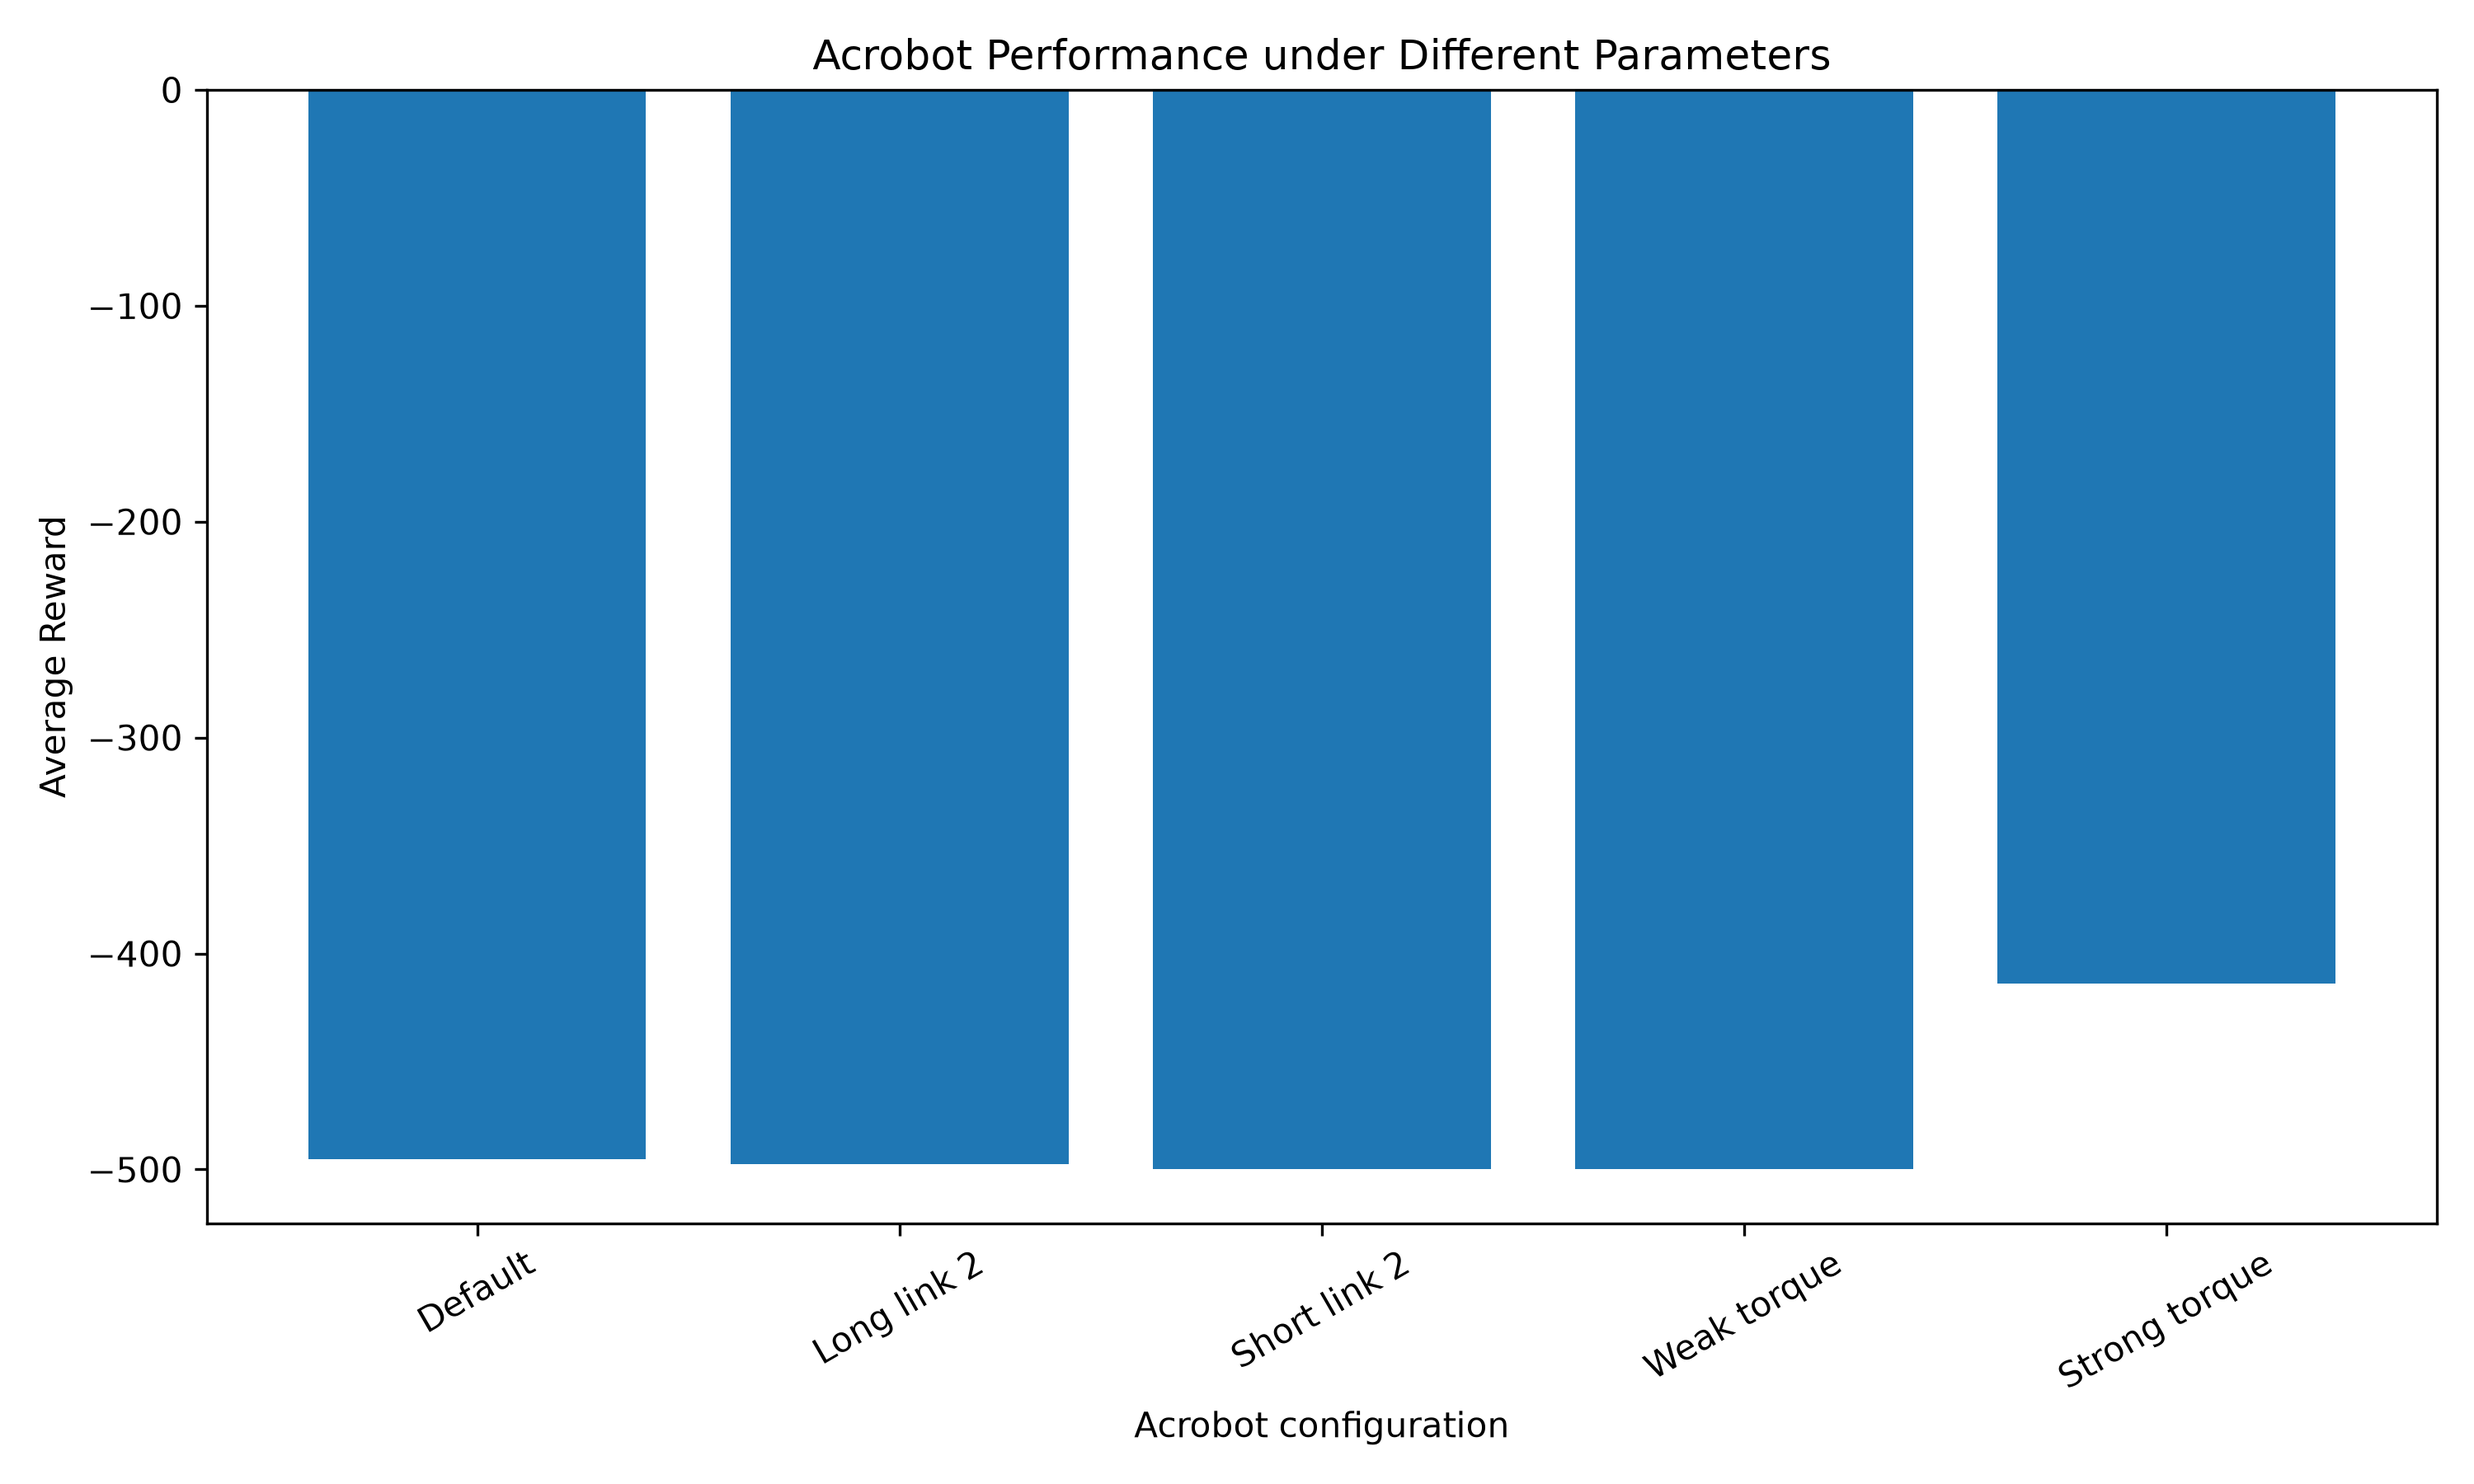
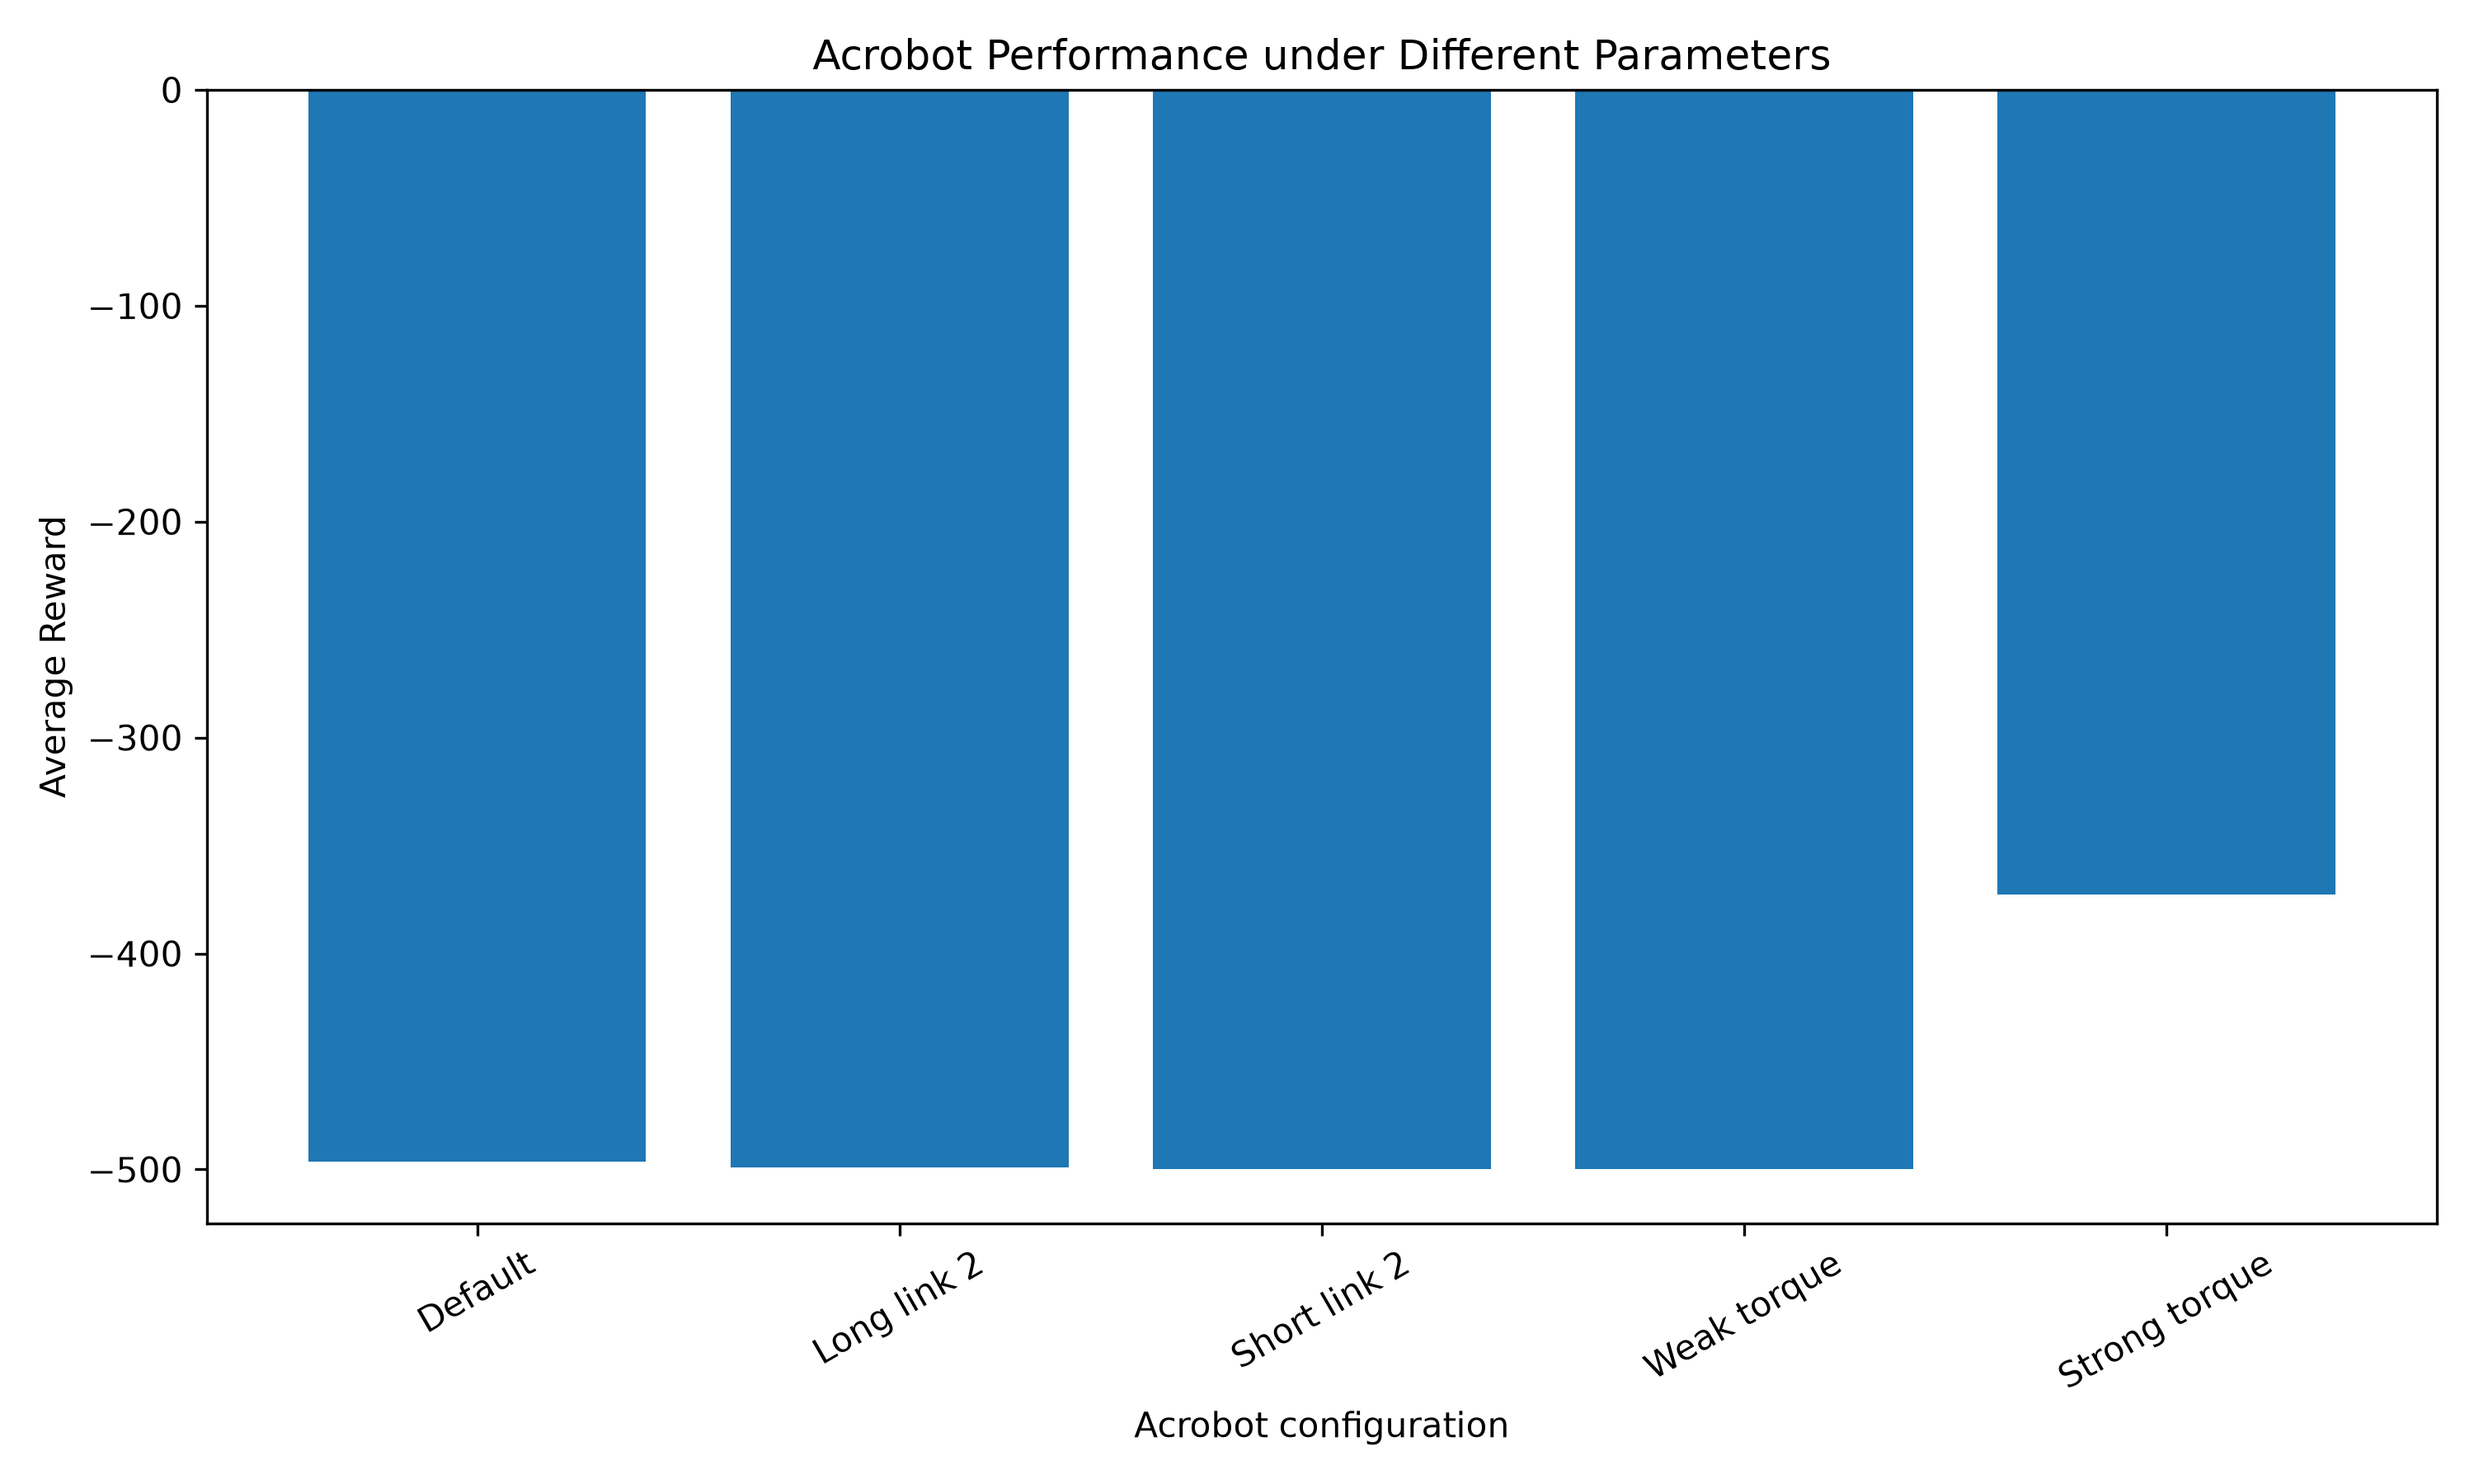
n

Changed region(s): [[0.806, 0.5911, 0.961, 0.6844]]

diff --git a/TH2/Acrobot/C.py b/TH2/Acrobot/C.py
@@ -1,33 +1,45 @@
 import gymnasium as gym
-import numpy as np
+import numpy as np 
 
-env = gym.make("Acrobot-v1")
+env2 = gym.make("Acrobot-v1")
+obs, info = env2.reset(seed=0)
 
-def run(policy_fn, n=50):
+manual_actions = [2, 0, 2, 0, 2, 2, 0, 0, 2, 2]  # tự chọn tay
+total = 0
+for a in manual_actions:
+    obs, r, terminated, truncated, info = env2.step(a)
+    total += r
+    if terminated or truncated:
+        break
+print("Manual reward:", total)
+
+def run2(policy_fn, n=50):
     rewards, successes = [], []
     for i in range(n):
-        obs, info = env.reset(seed=i)
+        obs, info = env2.reset(seed=i)
         total = 0
         for step in range(500):
             action = policy_fn(obs)
-            obs, r, terminated, truncated, info = env.step(action)
+            obs, r, terminated, truncated, info = env2.step(action)
             total += r
             if terminated or truncated:
-                successes.append(terminated)
+                successes.append(terminated)  # đạt goal trước timeout = thành công
                 break
         rewards.append(total)
     return np.mean(rewards), np.mean(successes)
 
-# Random
-r_reward, r_success = run(lambda obs: env.action_space.sample())
+r_reward2, r_success2 = run2(lambda obs: env2.action_space.sample())
+print(f"Random -> reward: {r_reward2:.2f}, success: {r_success2:.2f}")
 
-# Heuristic
-def heuristic(obs):
+def heuristic2(obs):
     _, _, _, _, vel1, vel2 = obs
-    return 2 if vel2 > 0 else (0 if vel2 < 0 else 1)
+    return 2 if vel2 > 0 else (0 if vel2 < 0 else 1)  # đánh đu theo hướng vận tốc
 
-h_reward, h_success = run(heuristic)
+h_reward2, h_success2 = run2(heuristic2)
+print(f"Heuristic -> reward: {h_reward2:.2f}, success: {h_success2:.2f}")
+env2.close()
 
-print(f"Random    -> reward: {r_reward:.2f}, success: {r_success:.2f}")
-print(f"Heuristic -> reward: {h_reward:.2f}, success: {h_success:.2f}")
-env.close()
+from stable_baselines3 import PPO
+
+model2 = PPO("MlpPolicy", gym.make("Acrobot-v1"), verbose=0)
+model2.learn(total_timesteps=20_000)

diff --git a/TH2/CartPole/C.py b/TH2/CartPole/C.py
@@ -1,7 +1,18 @@
 import gymnasium as gym
-import numpy as np
 
 env = gym.make("CartPole-v1")
+obs, info = env.reset(seed=0)
+
+manual_actions = [1, 1, 0, 0, 1, 0, 1, 1, 0, 0]  # tự chọn tay
+total = 0
+for a in manual_actions:
+    obs, r, terminated, truncated, info = env.step(a)
+    total += r
+    if terminated or truncated:
+        break
+print("Manual reward:", total)
+
+import numpy as np
 
 def run(policy_fn, n=50):
     rewards, successes = [], []
@@ -13,21 +24,23 @@ def run(policy_fn, n=50):
             obs, r, terminated, truncated, info = env.step(action)
             total += r
             if terminated or truncated:
-                successes.append(truncated)
+                successes.append(truncated)  # sống đủ 500 bước = thành công
                 break
         rewards.append(total)
     return np.mean(rewards), np.mean(successes)
 
-# Random
 r_reward, r_success = run(lambda obs: env.action_space.sample())
+print(f"Random -> reward: {r_reward:.2f}, success: {r_success:.2f}")
 
-# Heuristic
 def heuristic(obs):
     pos, vel, angle, ang_vel = obs
-    return 1 if (angle + 0.5 * ang_vel) > 0 else 0
+    return 1 if (angle + 0.5 * ang_vel) > 0 else 0  # đẩy theo hướng pole nghiêng
 
 h_reward, h_success = run(heuristic)
-
-print(f"Random    -> reward: {r_reward:.2f}, success: {r_success:.2f}")
 print(f"Heuristic -> reward: {h_reward:.2f}, success: {h_success:.2f}")
 env.close()
+
+from stable_baselines3 import PPO
+
+model = PPO("MlpPolicy", gym.make("CartPole-v1"), verbose=0)
+model.learn(total_timesteps=20_000)

diff --git a/TH2/Acrobot/B.py b/TH2/Acrobot/B.py
@@ -2,6 +2,7 @@ import gymnasium as gym
 import numpy as np
 import pandas as pd
 import matplotlib.pyplot as plt
+import os
 
 env = gym.make("Acrobot-v1")
 u = env.unwrapped
@@ -10,21 +11,6 @@ u.LINK_LENGTH_1 = 1.0
 u.LINK_LENGTH_2 = 1.5   # đổi độ dài link
 t = 2.0
 u.AVAIL_TORQUE = [-t, 0.0, t]  # đổi torque
-
-rewards = []
-for i in range(50):
-    obs, info = env.reset(seed=i)
-    total = 0
-    for step in range(500):
-        action = env.action_space.sample()
-        obs, r, terminated, truncated, info = env.step(action)
-        total += r
-        if terminated or truncated:
-            break
-    rewards.append(total)
-
-print("Avg reward:", np.mean(rewards))
-env.close()
 
 # =========================
 # Random policy
@@ -166,6 +152,10 @@ plt.title("Acrobot Performance under Different Parameters")
 plt.xticks(rotation=30)
 plt.tight_layout()
 
+os.makedirs(
+    "D:/reinforcement_learning/RL_TH/TH2/figures",
+    exist_ok=True
+)
 # Lưu ảnh
 plt.savefig("D:/reinforcement_learning/RL_TH/TH2/figures/acrobot_comparison.png", dpi=300)
 

diff --git a/TH2/Acrobot/C1.py b/TH2/Acrobot/C1.py
@@ -1,0 +1,13 @@
+import gymnasium as gym
+from gymnasium.utils.play import play
+
+env = gym.make("Acrobot-v1", render_mode="rgb_array")
+
+# Acrobot action: 0 = torque -1, 1 = torque 0, 2 = torque +1
+keys_to_action = {
+    "a": 0,   # phím A = torque -1
+    "d": 2,   # phím D = torque +1
+    # không nhấn gì = noop (torque 0)
+}
+
+play(env, keys_to_action=keys_to_action, noop=1, fps=15)  # giảm từ 30 xuống 15

diff --git a/TH2/CartPole/C1.py b/TH2/CartPole/C1.py
@@ -1,0 +1,12 @@
+import gymnasium as gym
+from gymnasium.utils.play import play
+
+env = gym.make("CartPole-v1", render_mode="rgb_array")
+
+# CartPole action: 0 = trái, 1 = phải
+keys_to_action = {
+    "a": 0,   # phím A = đẩy trái
+    "d": 1,   # phím D = đẩy phải
+}
+
+play(env, keys_to_action=keys_to_action, noop=0, fps=15, zoom=3)

diff --git a/TH2/CartPole/tempCodeRunnerFile.py b/TH2/CartPole/tempCodeRunnerFile.py
@@ -1,0 +1,1 @@
+from stable_baselines3 import PPO
